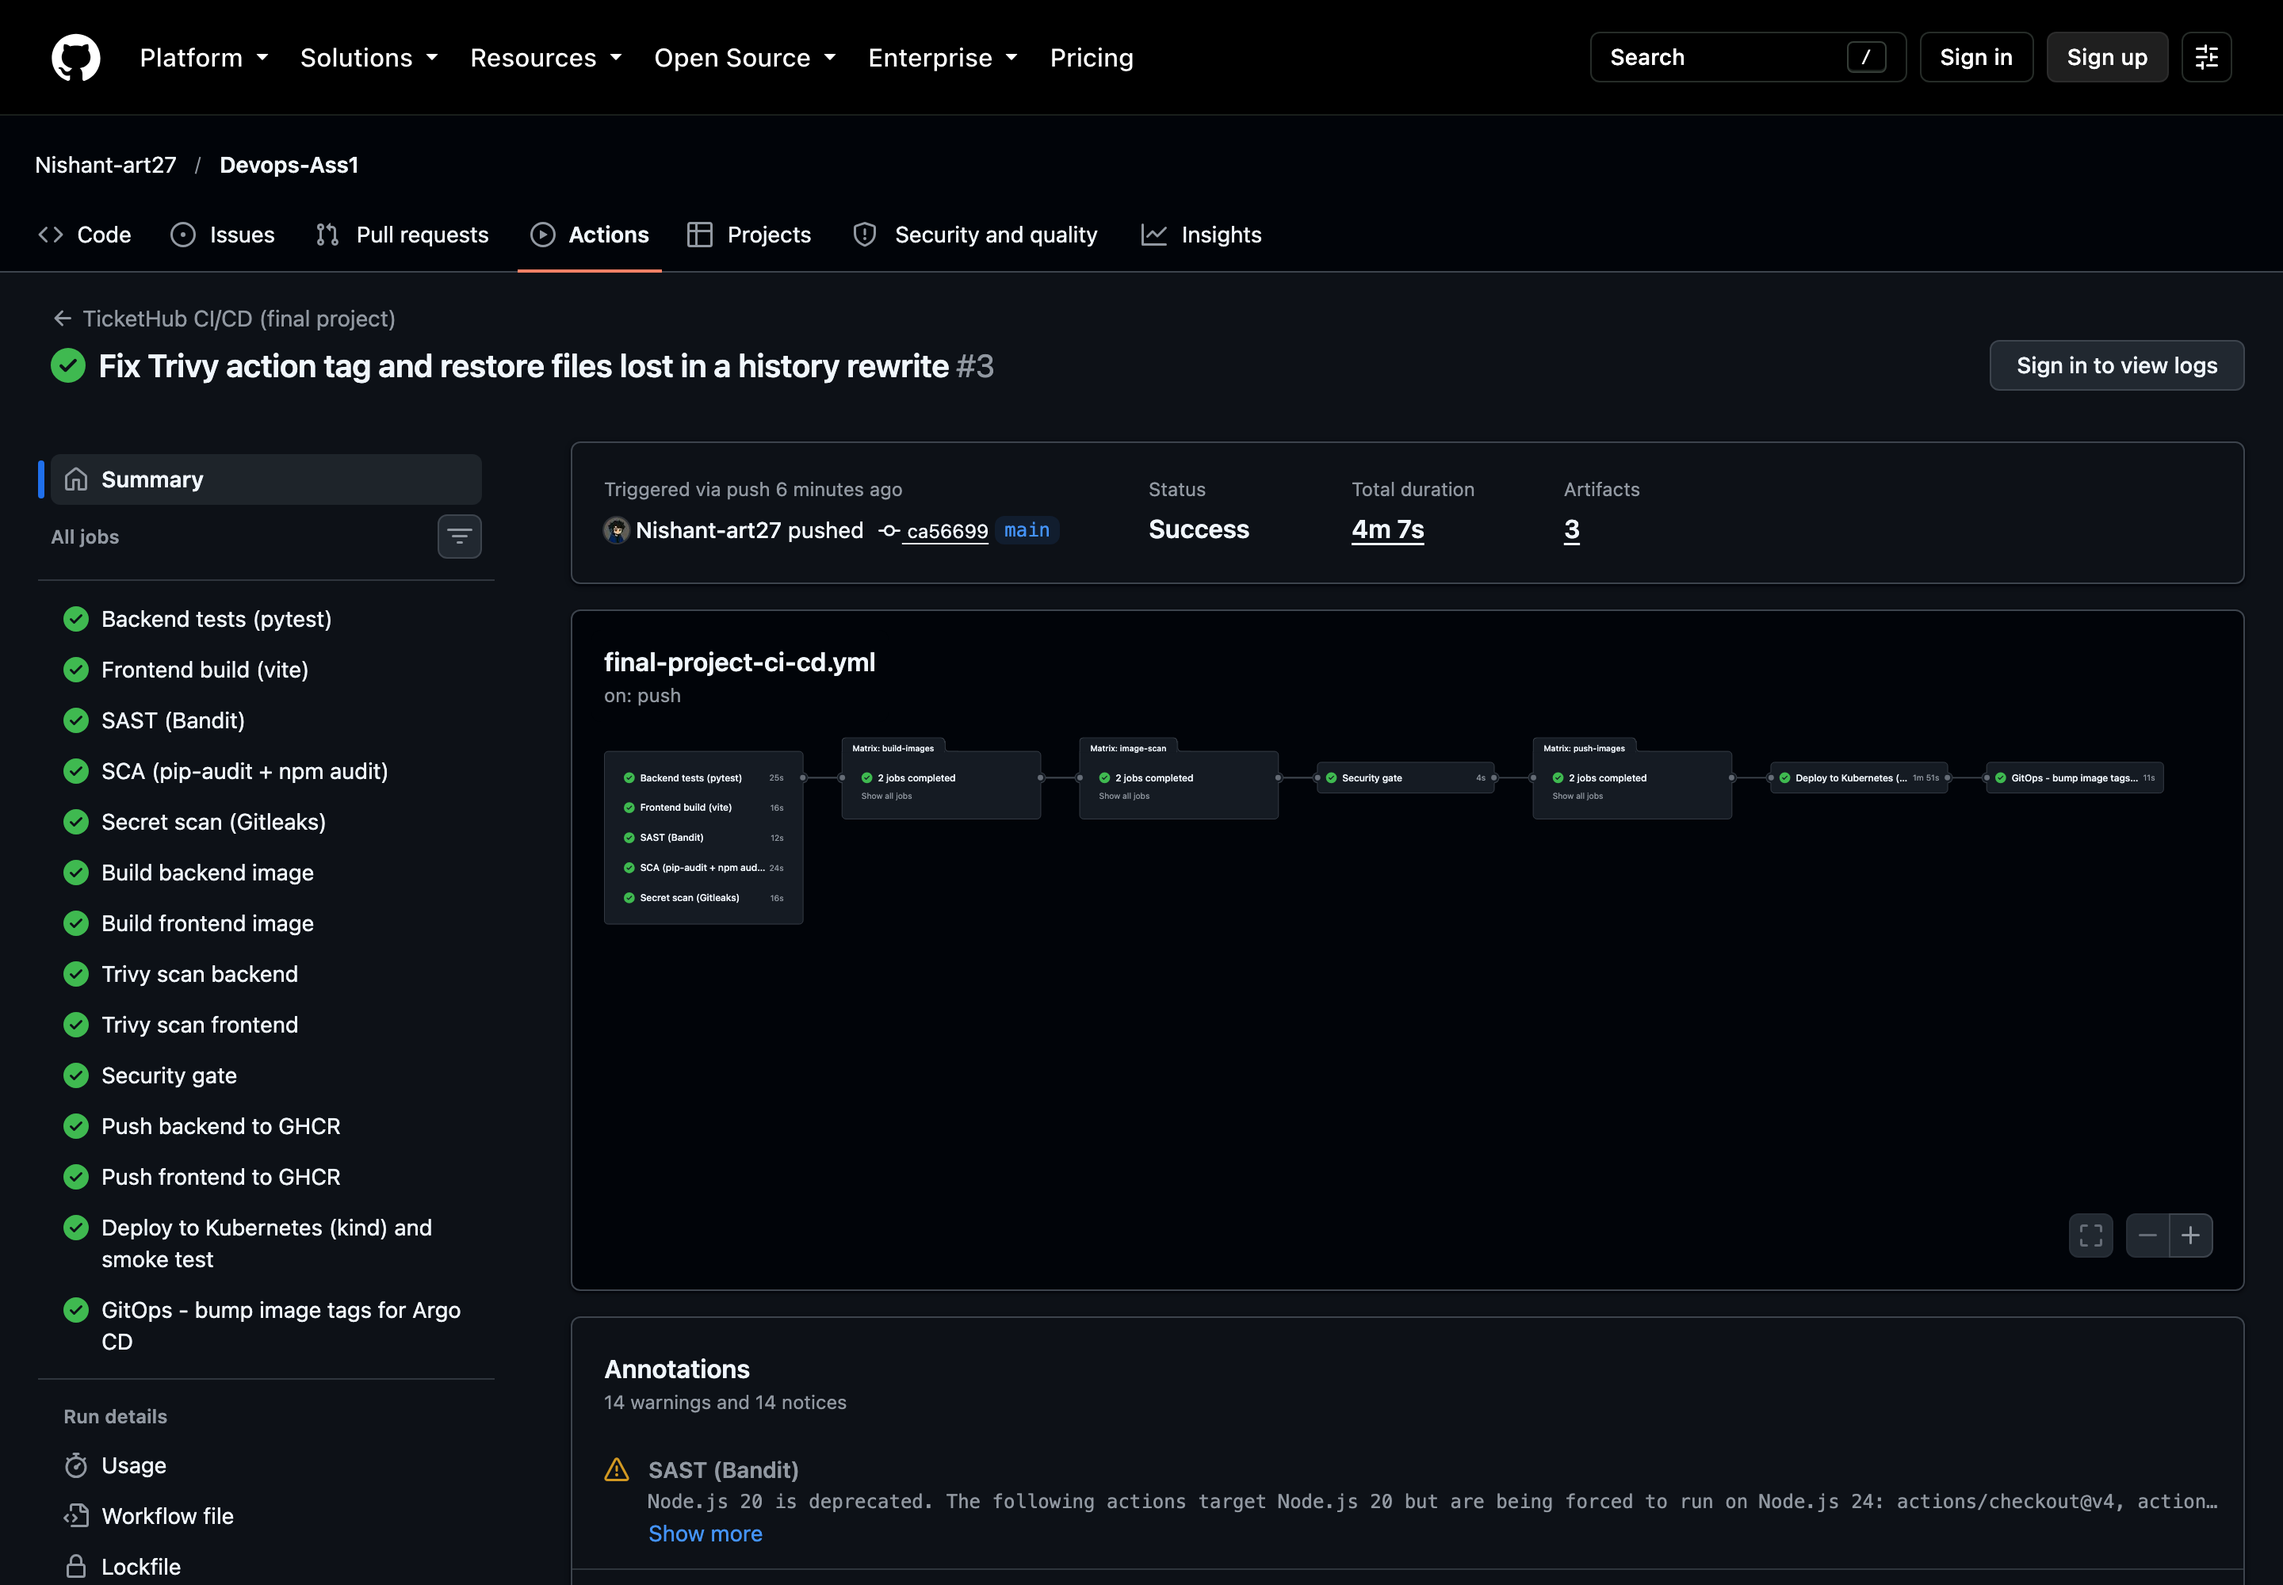
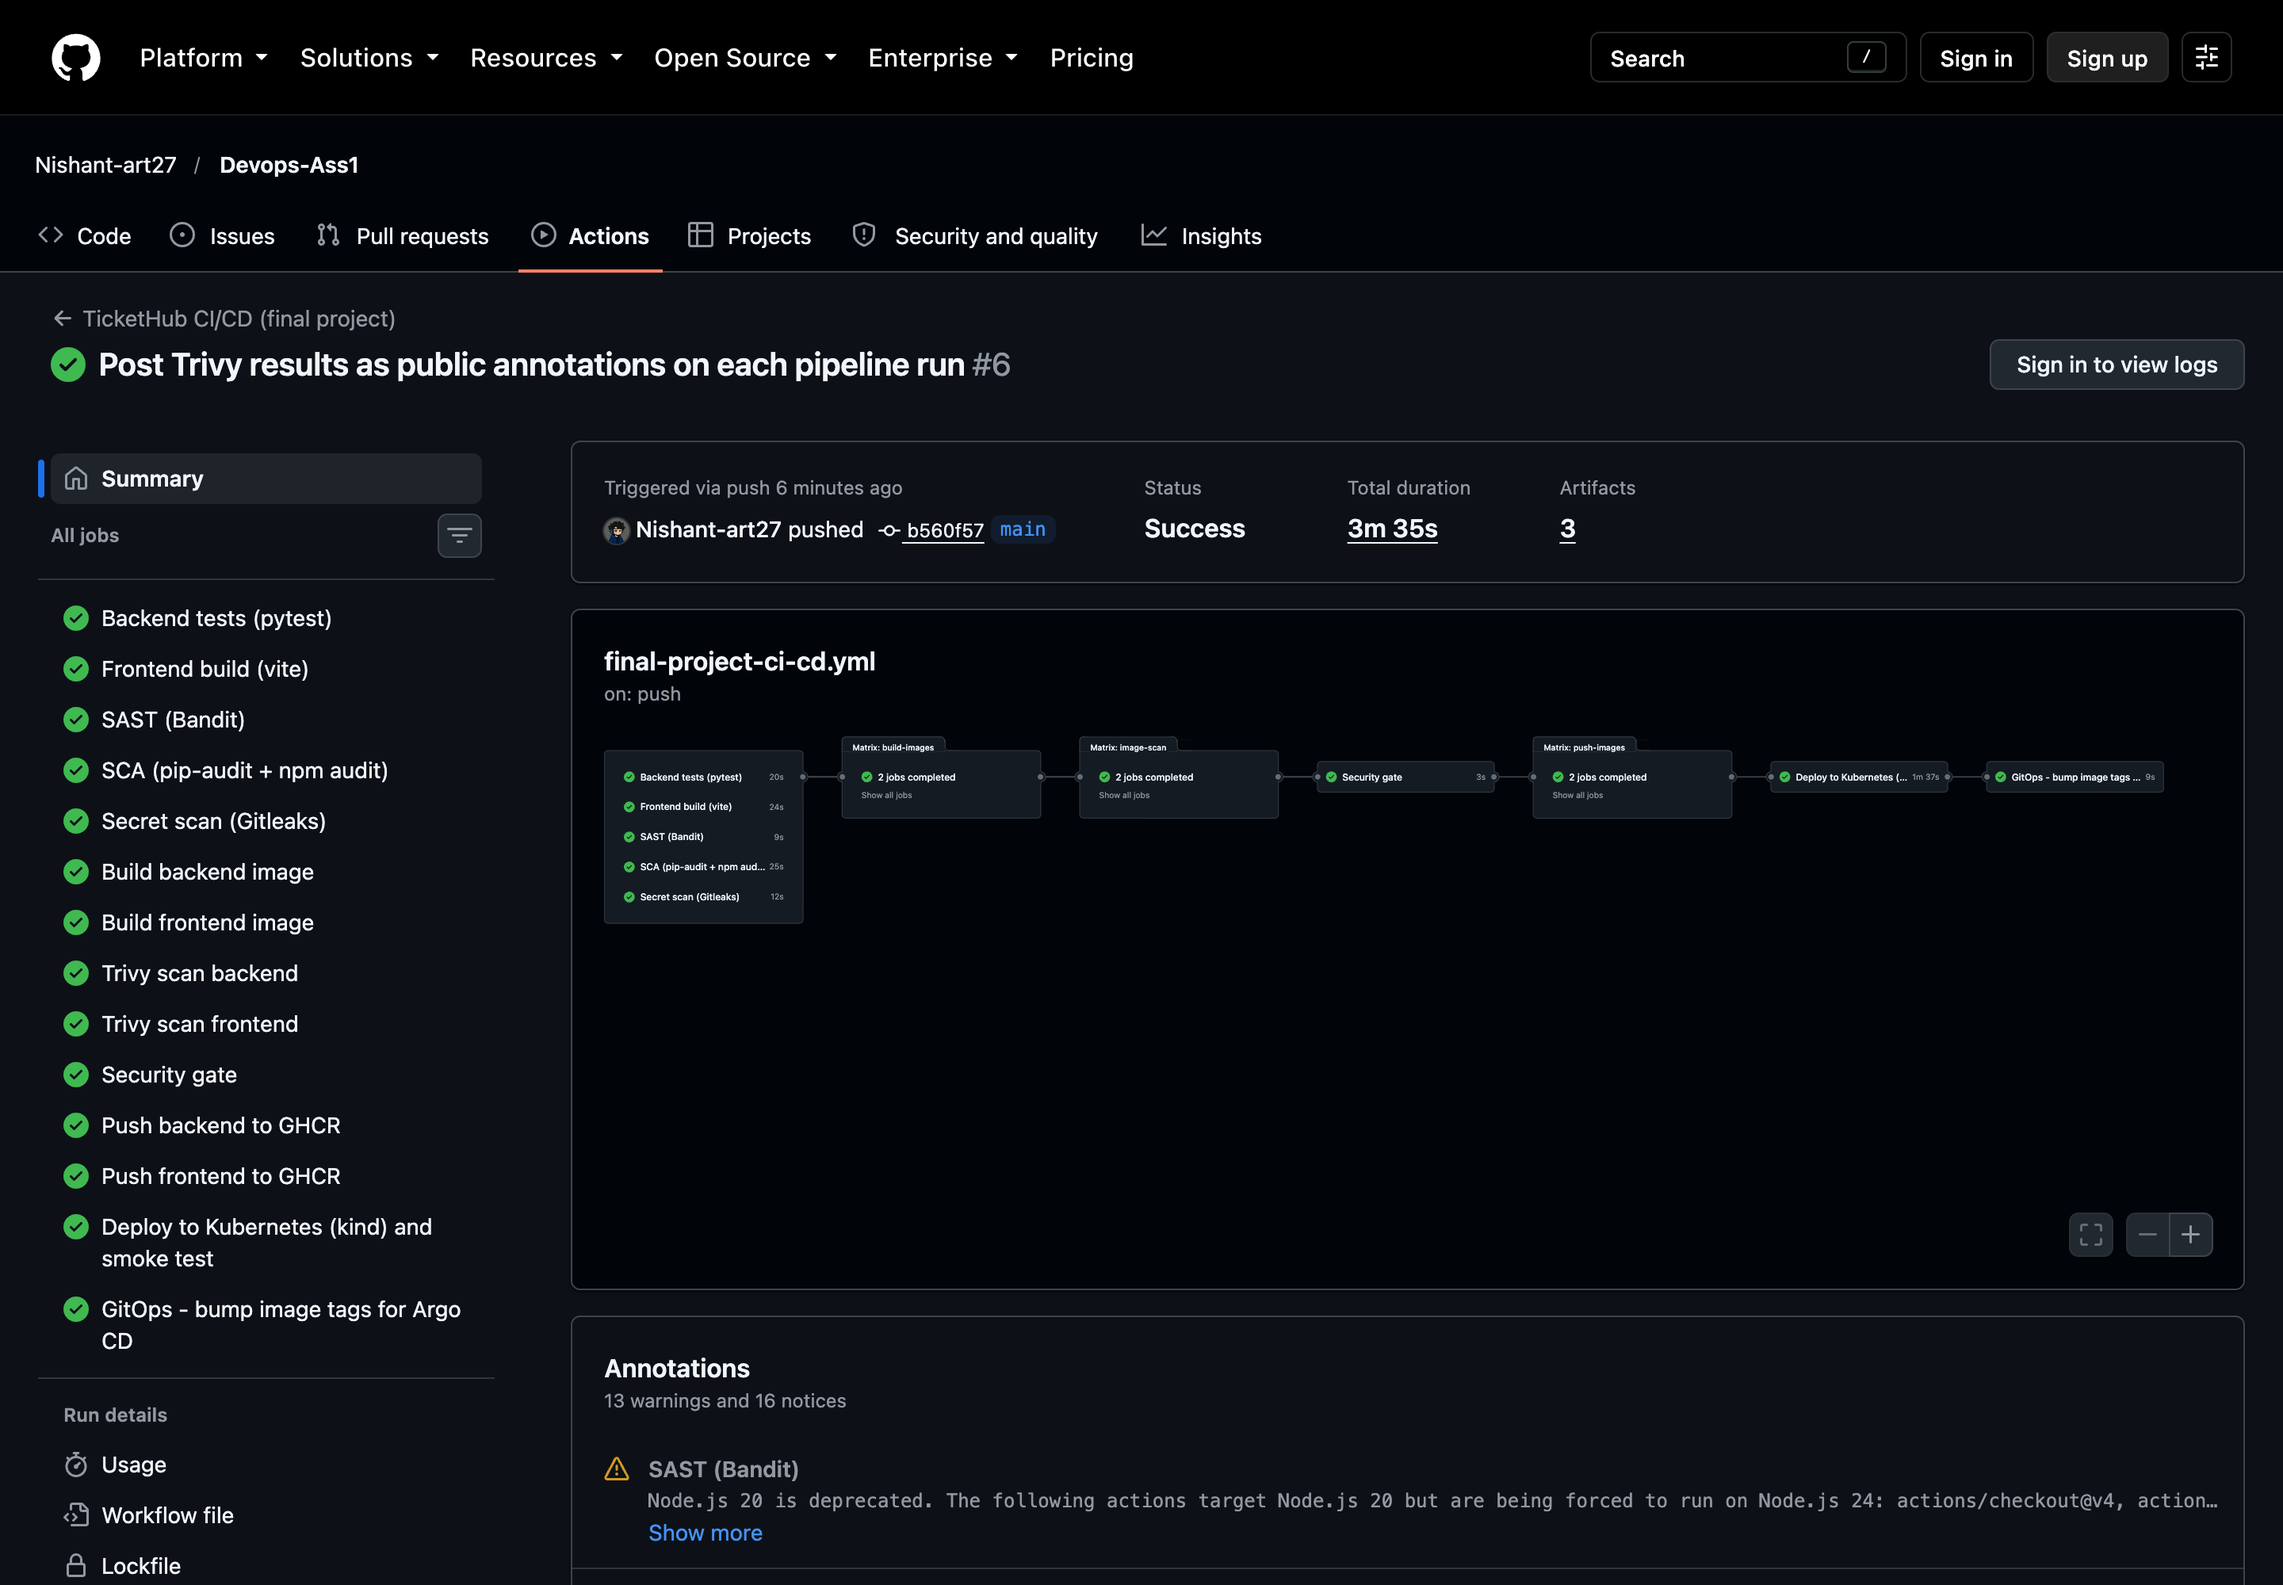
Add CI, GHCR, Trivy and commit-history evidence to both READMEs
- Run summaries of the green Session 21 and TicketHub pipelines on main.
- GHCR package pages for both projects, images tagged with the commit SHA.
- The pipeline's own Trivy result for every image, from the public run
  annotations (M6).
- Commit history on GitHub (M3).

diff --git a/session-21-python-capstone/README.md b/session-21-python-capstone/README.md
@@ -22,10 +22,10 @@ laptop                                      kind cluster "taskboard" (local Kube
 | A. Understand the application | [taskboard/backend](taskboard/backend), [taskboard/frontend](taskboard/frontend) | [API docs](screenshots/02-api-docs.png) |
 | B. Run it locally (Compose) | [taskboard/docker-compose.yml](taskboard/docker-compose.yml) | [compose up](screenshots/t-03-compose-up.png), [dashboard](screenshots/01-app-dashboard.png) |
 | C. Testing | [taskboard/backend/tests](taskboard/backend/tests) | [pytest -v, 13 passed](screenshots/t-01-pytest.png) |
-| D. Git and GitHub | this repository | commit history on GitHub |
+| D. Git and GitHub | this repository | [commit history](screenshots/04d-commit-history.png) |
 | E. Docker | the two Dockerfiles | [images, non-root users](screenshots/t-07-docker-images.png) |
-| F. CI/CD | [.github/workflows/session21-taskboard-ci-cd.yml](../.github/workflows/session21-taskboard-ci-cd.yml) | [green run on `main`](screenshots/04-ci-pipeline-run.png), [GHCR packages](https://github.com/Nishant-art27/Devops-Ass1/pkgs/container/taskboard-backend) |
-| G. Security scanning | Trivy step in the workflow, run locally too | [before](screenshots/t-09-trivy-before.png), [after](screenshots/t-08-trivy-after.png) |
+| F. CI/CD | [.github/workflows/session21-taskboard-ci-cd.yml](../.github/workflows/session21-taskboard-ci-cd.yml) | [green run on `main`](screenshots/04-ci-pipeline-run.png), [GHCR packages](screenshots/04b-ghcr-taskboard-backend.png) |
+| G. Security scanning | Trivy step in the workflow, run locally too | [before](screenshots/t-09-trivy-before.png), [after](screenshots/t-08-trivy-after.png), [in the pipeline](screenshots/04e-ci-trivy-pipeline.png) |
 | H. Terraform | [taskboard/terraform](taskboard/terraform) | [init, validate, plan](screenshots/t-21-terraform.png) |
 | I, J. Kubernetes + Helm | [taskboard/k8s](taskboard/k8s), [taskboard/helm/taskboard](taskboard/helm/taskboard) | [helm install](screenshots/t-12-helm-install.png), [objects](screenshots/t-13-k8s-objects.png) |
 | K. Ingress | `helm/taskboard/templates/ingress.yaml` | [curl through the host](screenshots/t-14-ingress-access.png), [browser](screenshots/03-ingress-browser.png) |
@@ -168,6 +168,10 @@ session21: kind config, Grafana dashboard ConfigMap, load and seed scripts
 session21: README and screenshots
 ```
 
+The commit history on GitHub, well past the ten commits the rubric asks for:
+
+![Commit history](screenshots/04d-commit-history.png)
+
 ---
 
 ## Part E. Docker
@@ -202,6 +206,12 @@ The pipeline on `main` ([all runs](https://github.com/Nishant-art27/Devops-Ass1/
 
 ![Pipeline run](screenshots/04-ci-pipeline-run.png)
 
+Both images on GHCR, tagged with the commit SHA:
+
+![GHCR backend package](screenshots/04b-ghcr-taskboard-backend.png)
+
+![GHCR frontend package](screenshots/04c-ghcr-taskboard-frontend.png)
+
 ---
 
 ## Part G. Security scanning
@@ -217,6 +227,10 @@ The reference images, scanned before any change:
 After the upgrades both images pass the same gate the pipeline uses:
 
 ![Trivy after](screenshots/t-08-trivy-after.png)
+
+In the pipeline, each scan also posts its result as an annotation on the run page. GitHub shows annotations to anyone, while logs and run summaries need a signed-in account. The pipeline's own scan of both images, tagged with the commit SHA, is clean:
+
+![Trivy in the pipeline](screenshots/04e-ci-trivy-pipeline.png)
 
 ---
 
@@ -337,7 +351,7 @@ Final state of the cluster at the end of the lab:
 | M3 Git | Ignores in place, folder committed and pushed to `main`, root README index | |
 | M4 Docker | Both Dockerfiles non-root, multi-stage frontend, Compose with health checks | |
 | M5 CI/CD | Workflow at the repository root, SHA tags, GHCR push, Helm deploy; green run and public packages in Part F | |
-| M6 Trivy | In the pipeline and run locally; before/after findings explained | |
+| M6 Trivy | In the pipeline (result posted as a public annotation) and run locally; before/after findings explained | |
 | M7 Terraform | HCL, `init`, `fmt`, `validate`, `tfvars.example` | AWS credentials for `plan`, `apply`, console screenshot, `destroy` |
 | M8 Kubernetes + Helm | Namespace, chart, 2 replicas each, ClusterIP Services, Ingress, all Running | |
 | M9 Observability | `/metrics`, Prometheus scraping, Grafana dashboard with live panels | |

diff --git a/final-devops-project/README.md b/final-devops-project/README.md
@@ -149,13 +149,23 @@ The pipeline on `main` ([all runs](https://github.com/Nishant-art27/Devops-Ass1/
 
 ![Pipeline run](screenshots/04-ci-pipeline-run.png)
 
+Both images on GHCR, tagged with the commit SHA:
+
+![GHCR backend package](screenshots/04b-ghcr-tickethub-backend.png)
+
+![GHCR frontend package](screenshots/04c-ghcr-tickethub-frontend.png)
+
 ---
 
 ## M6. Security scanning
 
 Trivy scans both images in the pipeline with `severity: HIGH,CRITICAL`, `ignore-unfixed: true` and `exit-code: 1`, so any fixable high or critical CVE in the Debian or Alpine base, the Python packages or the nginx layer fails the run before anything is pushed. Bandit, pip-audit, `npm audit --audit-level=high` and Gitleaks cover the source, the dependencies and committed secrets. What Trivy scans is the filesystem of the finished image, OS packages plus language packages; a clean result means no known, patched vulnerability of that severity is present in that image at that moment, not that the application is bug-free.
 
-Locally the same checks ran on Session 17's image; see that folder for the Bandit, pip-audit, Gitleaks and Trivy output. The frontend image is scanned the same way in the pipeline.
+Locally the same checks ran on Session 17's image; see that folder for the Bandit, pip-audit, Gitleaks and Trivy output.
+
+In the pipeline, each Trivy scan also posts its result as an annotation on the run page. GitHub shows annotations to anyone, while logs and run summaries need a signed-in account. The pipeline's own scan of both TicketHub images is clean:
+
+![Trivy in the pipeline](screenshots/04e-ci-trivy-pipeline.png)
 
 ---
 
